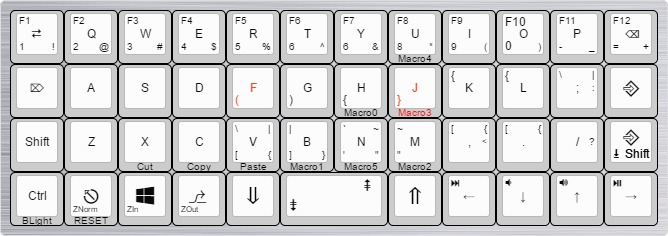
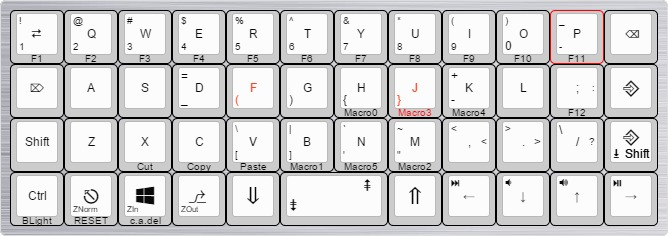
Various QOL changes:
Removed some unneeded keys from raise and lower layers
moved the + and = signs, backspace is now more intuitive
moved all the Function keys to CUSTOM layer
added ctrl alt del to CUSTOM layer
simplified the layout picture greatly

diff --git a/keyboards/planck/keymaps/espynn/keymap.c b/keyboards/planck/keymaps/espynn/keymap.c
@@ -60,7 +60,7 @@ const uint16_t PROGMEM fn_actions[] = {
     [7] = ACTION_MODS_KEY(MOD_LCTL, KC_UNDS),
  };
 
-// This config can be found at Keyboard layout editor site: http://goo.gl/zjXL2l
+// This config can be found at Keyboard layout editor site: https://goo.gl/cF7uIO
 const uint16_t PROGMEM keymaps[][MATRIX_ROWS][MATRIX_COLS] = {
 [_QWERTY] = { /* QWERTY */
     {KC_TAB,  KC_Q,    KC_W,    KC_E,    KC_R,    KC_T,    KC_Y,    KC_U,    KC_I,    KC_O,    KC_P,    KC_BSPC},
@@ -69,22 +69,22 @@ const uint16_t PROGMEM keymaps[][MATRIX_ROWS][MATRIX_COLS] = {
     {KC_LCTL, KC_ESC,  KC_LGUI, KC_LALT, LOWER,   KC_SPC,  KC_SPC,  RAISE,   KC_LEFT, KC_DOWN, KC_UP,   KC_RGHT}
 },
 [_LOWER] = { /* LOWER */
-    {KC_1,    KC_2,    KC_3,    KC_4,    KC_5,    KC_6,    KC_7,    KC_8,    KC_9,    KC_0,    KC_MINS, KC_EQL},
-    {KC_TRNS, KC_TRNS, KC_TRNS, KC_TRNS, KC_LPRN, KC_RPRN, KC_LCBR, KC_RCBR, KC_TRNS, KC_TRNS, KC_TRNS, KC_TRNS},
+    {KC_1,    KC_2,    KC_3,    KC_4,    KC_5,    KC_6,    KC_7,    KC_8,    KC_9,    KC_0,    KC_MINS, KC_TRNS},
+    {KC_TRNS, KC_TRNS, KC_TRNS, KC_UNDS, KC_LPRN, KC_RPRN, KC_LCBR, KC_RCBR, KC_MINS, KC_TRNS, KC_TRNS, KC_TRNS},
     {KC_TRNS, KC_TRNS, KC_TRNS, KC_TRNS, KC_LBRC, KC_RBRC, KC_QUOT, KC_DQT,  KC_TRNS, KC_TRNS, KC_TRNS, KC_TRNS},
     {KC_TRNS, ZM_NRM,  ZM_IN,   ZM_OUT,  KC_TRNS, KC_PGDN, KC_PGDN, KC_TRNS, KC_TRNS, KC_TRNS, KC_TRNS, KC_TRNS}
 },
 [_RAISE] = { /* RAISE */
-    {KC_F1,   KC_F2,   KC_F3,   KC_F4,   KC_F5,   KC_F6,   KC_F7,   KC_F8,   KC_F9,   KC_F10,  KC_F11,  KC_F12},
-    {KC_TRNS, KC_TRNS, KC_TRNS, KC_TRNS, KC_TRNS, KC_TRNS, KC_TRNS, KC_TRNS, KC_LCBR, KC_LCBR, KC_BSLS, KC_TRNS},
-    {KC_TRNS, KC_TRNS, KC_TRNS, KC_TRNS, KC_BSLS, KC_PIPE, KC_GRV,  KC_TILD, KC_LBRC, KC_LBRC, KC_TRNS, KC_TRNS},
-    {KC_TRNS, KC_TRNS, KC_TRNS, KC_TRNS, KC_TRNS, KC_PGUP, KC_PGUP, KC_TRNS, KC_MNXT, KC_VOLD, KC_VOLU, KC_MPLY}
+    {KC_EXLM, KC_AT,   KC_HASH, KC_DLR,  KC_PERC, KC_CIRC, KC_AMPR, KC_ASTR, KC_LPRN,    KC_RPRN,    KC_UNDS, KC_TRNS},
+    {KC_TRNS, KC_TRNS, KC_TRNS, KC_EQL,  KC_TRNS, KC_TRNS, KC_TRNS, KC_TRNS, KC_PLUS,    KC_TRNS,    KC_TRNS, KC_TRNS},
+    {KC_TRNS, KC_TRNS, KC_TRNS, KC_TRNS, KC_BSLS, KC_PIPE, KC_GRV,  KC_TILD, S(KC_COMM), S(KC_DOT),  KC_BSLS, KC_TRNS},
+    {KC_TRNS, KC_TRNS, KC_TRNS, KC_TRNS, KC_TRNS, KC_PGUP, KC_PGUP, KC_TRNS, KC_MNXT,    KC_VOLD,    KC_VOLU, KC_MPLY}
 },
 [_CUSTOM] = { /* CUSTOM */
-    {KC_TRNS, KC_TRNS, KC_TRNS, KC_TRNS, KC_TRNS, KC_TRNS, KC_TRNS, CUS4,    KC_TRNS, KC_TRNS, KC_TRNS, KC_TRNS},
-    {KC_TRNS, KC_TRNS, KC_TRNS, KC_TRNS, KC_TRNS, KC_TRNS, CUS0,    CUS3,    KC_TRNS, KC_TRNS, KC_TRNS, KC_TRNS},
-    {KC_TRNS, KC_TRNS, CUT,     COPY,    PASTE,   CUS1,    CUS5,    CUS2,    KC_TRNS, KC_TRNS, KC_TRNS, KC_TRNS},
-    {BL,      RESET,   KC_TRNS, KC_TRNS, KC_TRNS, KC_TRNS, KC_TRNS, KC_TRNS, KC_TRNS, KC_TRNS, KC_TRNS, KC_TRNS}
+    {KC_F1,   KC_F2,   KC_F3,              KC_F4,   KC_F5,   KC_F6,   KC_F7,   KC_F8,   KC_F9,   KC_F10,  KC_F11,  KC_TRNS},
+    {KC_TRNS, KC_TRNS, KC_TRNS,            KC_TRNS, KC_TRNS, KC_TRNS, CUS0,    CUS3,    CUS4,    KC_TRNS, KC_F12,  KC_TRNS},
+    {KC_TRNS, KC_TRNS, CUT,                COPY,    PASTE,   CUS1,    CUS5,    CUS2,    KC_TRNS, KC_TRNS, KC_TRNS, KC_TRNS},
+    {BL,      RESET,   LALT(LCTL(KC_DEL)), KC_TRNS, KC_TRNS, KC_TRNS, KC_TRNS, KC_TRNS, KC_TRNS, KC_TRNS, KC_TRNS, KC_TRNS}
 }
 };
 

diff --git a/keyboards/planck/keymaps/espynn/readme.md b/keyboards/planck/keymaps/espynn/readme.md
@@ -3,7 +3,7 @@ Created by James Folkert: https://twitter.com/trekloFsemaJ
 Added several custom functions to the keymap from the "ab" map. Special thanks to "mollat" for demonstration of macros in their keymap.c
  
 
-![Layout](keyboard-layout.png "Practical Keymap")
+![Layout](keyboard-layout.jpg "Practical Keymap")
 
 
 * Online keyboard layout editor: http://www.keyboard-layout-editor.com/
@@ -14,5 +14,11 @@ Added several custom functions to the keymap from the "ab" map. Special thanks t
 * I disregarded the advice of Jack and used macros for passwords. I accept my fate. These have been abstracted to macros 2, 3, and 4
 * add your mobile and email to the keymap before make
 * RAISE and LOWER also acts as PgUp and PgDn when tapped.
-* [CapsLock] also acts as [Ctrl] key when you press and hold. It is convenient for GNU Emacs users. (not sure if this works)
 * Bracket/ paran/ brace keys are placed in the center of the keyboard for programmer's convenience.
+
+## changes
+* Removed some unneeded keys from raise and lower layers
+* moved the + and = signs, backspace is now more intuitive
+* moved all the Function keys to CUSTOM layer
+* added ctrl alt del to CUSTOM layer
+* simplified the layout picture greatly
